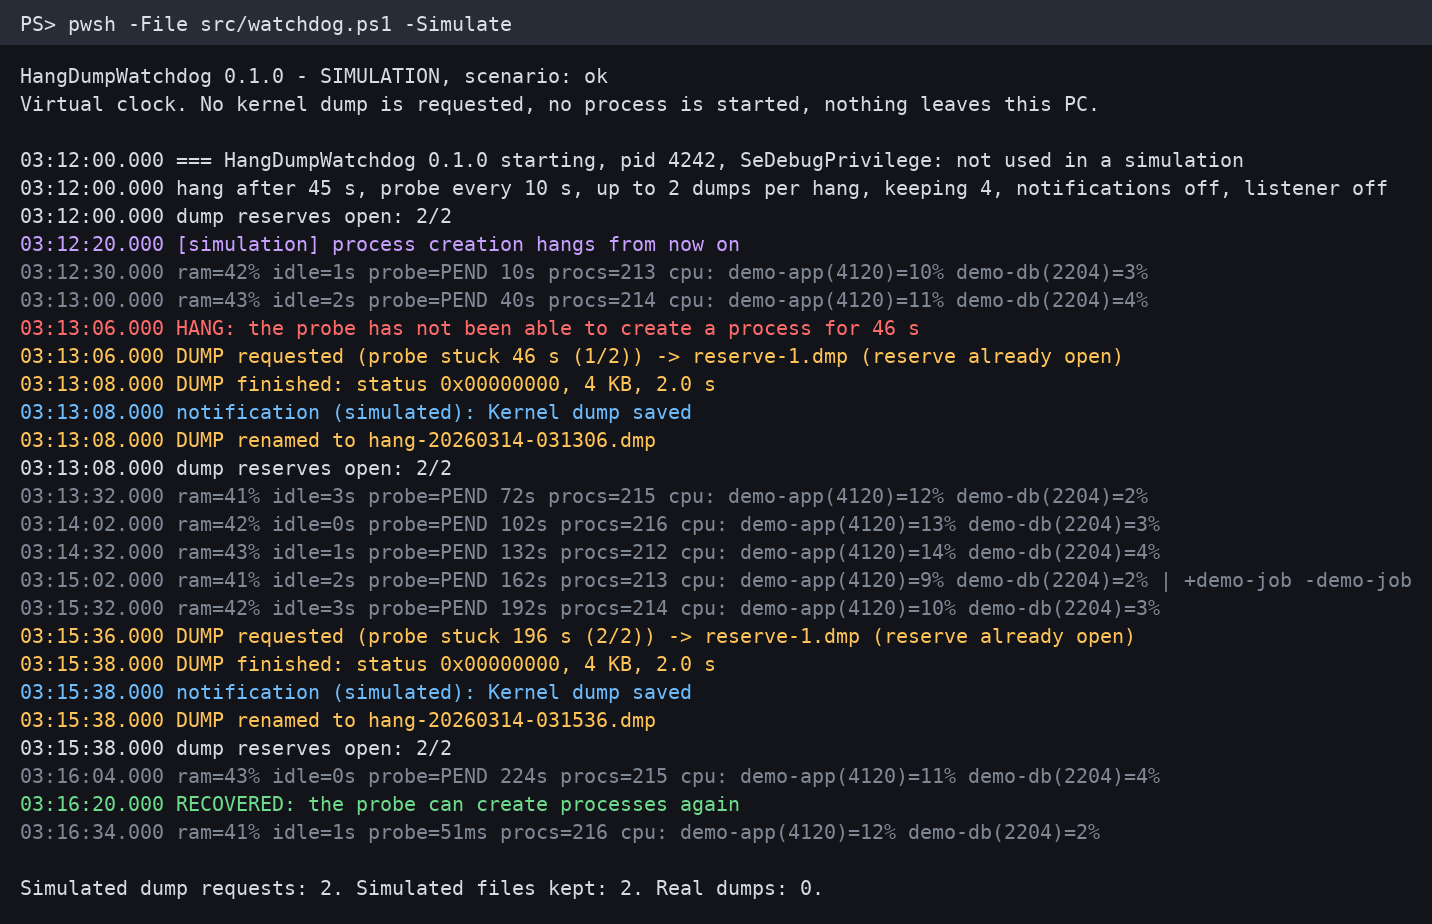
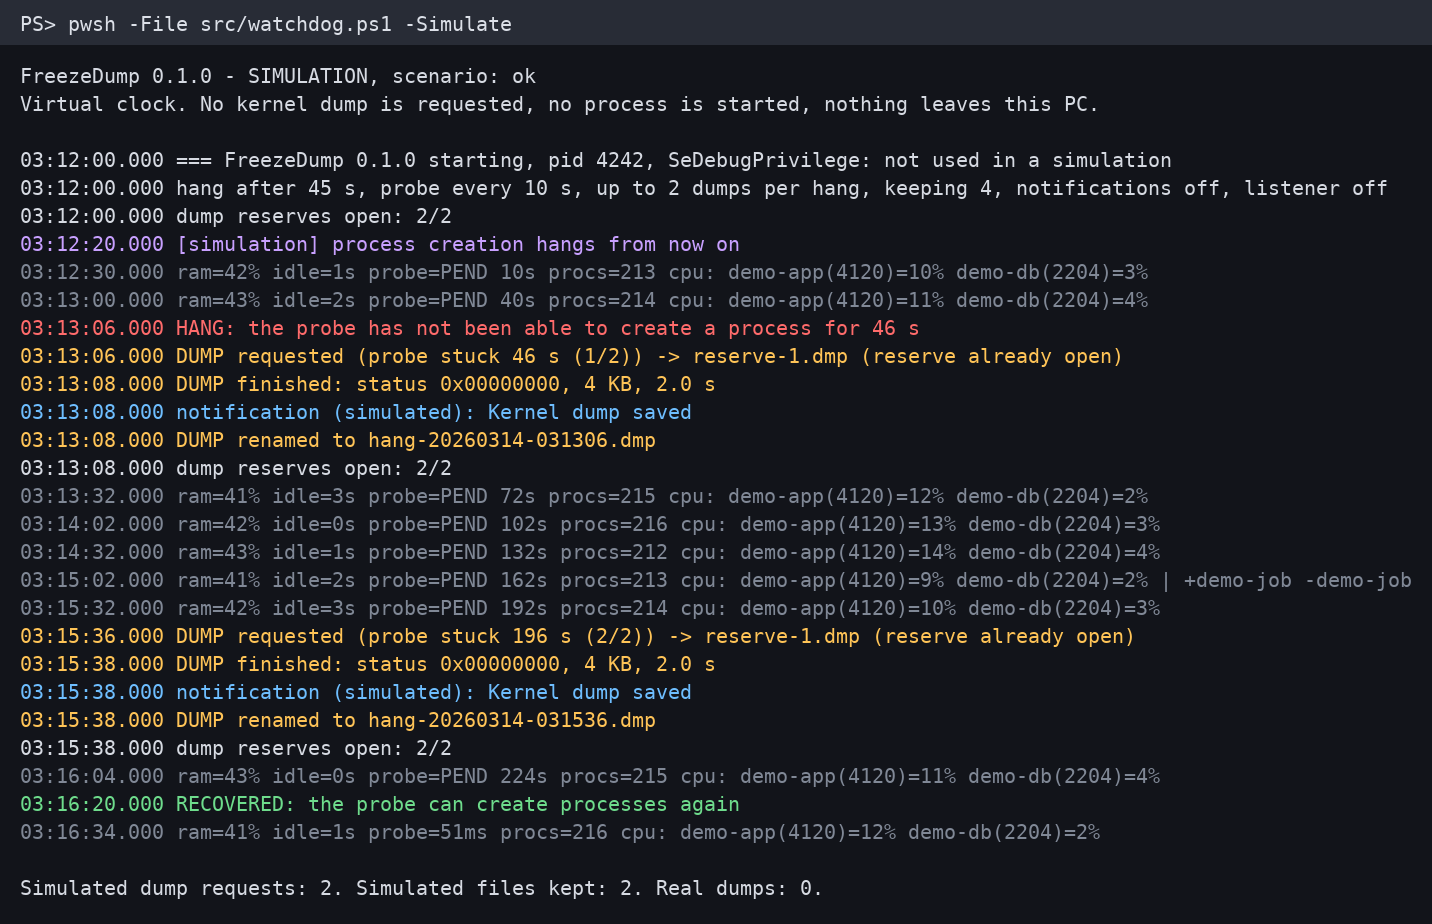
Rename to FreezeDump and record the first real dump with this code
-TestDump on a healthy PC: 2495 MB in 2.1 s, valid header, code 0x161,
and cdb opened the file. The real-hang fix is still unproven.

Claude-Session: https://claude.ai/code/session_01St6Ugn5cNv9w5un7SaPCzD

Changed region(s): [[0.1536, 0.1515, 0.8603, 0.1818], [0.0, 0.0606, 0.4302, 0.0909]]

diff --git a/src/Watchdog.cs b/src/Watchdog.cs
@@ -5,7 +5,7 @@ using System.IO;
 using System.Text;
 using System.Threading;
 
-namespace HangDumpWatchdog
+namespace FreezeDump
 {
     public sealed class Watchdog
     {
@@ -35,7 +35,7 @@ namespace HangDumpWatchdog
 
         public void Start(int processId, string debugPrivilege)
         {
-            log.Write("=== HangDumpWatchdog " + Program.Version + " starting, pid " + processId + ", SeDebugPrivilege: " + debugPrivilege);
+            log.Write("=== FreezeDump " + Program.Version + " starting, pid " + processId + ", SeDebugPrivilege: " + debugPrivilege);
             log.Write(cfg.Summary());
             dumps.Purge();
             dumps.PrepareReserves();
@@ -108,7 +108,7 @@ namespace HangDumpWatchdog
     public static class Program
     {
         public const string Version = "0.1.0";
-        const string MutexName = @"Global\HangDumpWatchdog";
+        const string MutexName = @"Global\FreezeDump";
         static Mutex instance;
 
         public const int ExitAlreadyRunning = 3;
@@ -182,7 +182,7 @@ namespace HangDumpWatchdog
             if (!cfg.Ntfy.Enabled) return "notifications are off: 'ntfy.url' is empty";
             Directory.CreateDirectory(cfg.LogDir);
             var log = new Logger(cfg.LogDir, new SystemClock(), true, false);
-            new NtfyNotifier(cfg.Ntfy.Url, cfg.Ntfy.Token, log).Send("HangDumpWatchdog test", "If you can read this, notifications work.");
+            new NtfyNotifier(cfg.Ntfy.Url, cfg.Ntfy.Token, log).Send("FreezeDump test", "If you can read this, notifications work.");
             return "test notification attempted (the line above has the result)";
         }
     }

diff --git a/src/Simulation.cs b/src/Simulation.cs
@@ -8,7 +8,7 @@ using System.Linq;
 using System.Text;
 using System.Threading;
 
-namespace HangDumpWatchdog
+namespace FreezeDump
 {
     public sealed class ScriptedProbe : IProbe
     {
@@ -157,7 +157,7 @@ namespace HangDumpWatchdog
                 throw new ArgumentException("unknown scenario: " + scenario);
 
             bool temporary = string.IsNullOrEmpty(workDir);
-            string dir = temporary ? Path.Combine(Path.GetTempPath(), "hang-dump-watchdog-sim-" + Guid.NewGuid().ToString("N")) : workDir;
+            string dir = temporary ? Path.Combine(Path.GetTempPath(), "FreezeDump-sim-" + Guid.NewGuid().ToString("N")) : workDir;
             WatchdogConfig cfg = settings.CopyForSimulation(dir);
             cfg.SampleIntervalSeconds = ShownSampleEvery;
             Directory.CreateDirectory(cfg.LogDir);

diff --git a/src/Config.cs b/src/Config.cs
@@ -5,7 +5,7 @@ using System.IO;
 using System.Net;
 using System.Text.Json;
 
-namespace HangDumpWatchdog
+namespace FreezeDump
 {
     public sealed class ConfigException : Exception
     {
@@ -49,7 +49,7 @@ namespace HangDumpWatchdog
 
         public static string DefaultDataDir()
         {
-            return Path.Combine(Environment.GetFolderPath(Environment.SpecialFolder.CommonApplicationData), "HangDumpWatchdog");
+            return Path.Combine(Environment.GetFolderPath(Environment.SpecialFolder.CommonApplicationData), "FreezeDump");
         }
 
         public static string DefaultConfigPath()

diff --git a/src/Dump.cs b/src/Dump.cs
@@ -7,7 +7,7 @@ using System.Linq;
 using System.Runtime.InteropServices;
 using System.Threading;
 
-namespace HangDumpWatchdog
+namespace FreezeDump
 {
     // Second safety catch next to the simulation: the native call refuses to run until the real
     // entry points in Program arm this gate. Simulations and tests never can (Arm is internal).

diff --git a/src/Detector.cs b/src/Detector.cs
@@ -1,5 +1,5 @@
 // Hang detection. Pure logic: it decides, it never acts, so it can be tested without a hang.
-namespace HangDumpWatchdog
+namespace FreezeDump
 {
     public struct DetectorDecision
     {

diff --git a/src/Listener.cs b/src/Listener.cs
@@ -9,7 +9,7 @@ using System.Net.Sockets;
 using System.Text;
 using System.Threading;
 
-namespace HangDumpWatchdog
+namespace FreezeDump
 {
     public sealed class CommandListener
     {

diff --git a/src/Probe.cs b/src/Probe.cs
@@ -7,7 +7,7 @@ using System.Linq;
 using System.Runtime.InteropServices;
 using System.Threading;
 
-namespace HangDumpWatchdog
+namespace FreezeDump
 {
     public interface IProbe
     {

diff --git a/src/Core.cs b/src/Core.cs
@@ -6,7 +6,7 @@ using System.Globalization;
 using System.IO;
 using System.Text;
 
-namespace HangDumpWatchdog
+namespace FreezeDump
 {
     public interface IClock
     {

diff --git a/src/Notify.cs b/src/Notify.cs
@@ -3,7 +3,7 @@ using System;
 using System.Net.Http;
 using System.Text;
 
-namespace HangDumpWatchdog
+namespace FreezeDump
 {
     public interface INotifier
     {

diff --git a/README.es.md b/README.es.md
@@ -1,4 +1,4 @@
-# HangDumpWatchdog
+# FreezeDump
 
 [English version](README.md)
 
@@ -56,10 +56,12 @@ este arreglo no sirve.
 | 31 oct 2026 | **Cuelgue real** | Prototipo privado | **Cuelgue detectado a los 45 s. El volcado nunca terminó, sin fichero** |
 | 31 oct 2026 | Por TCP, PC sano, con el arreglo | Prototipo privado | Bien: 2273 MB en 1,4 s, cabecera válida, código `0x161` |
 | Aún no | Cuelgue real, con el arreglo | | **Sin probar**: no ha habido ningún cuelgue real desde entonces |
-| 1 nov 2026 | Pruebas automáticas y simulación | Esta versión, 0.1.0 | Pasan. **Este código exacto aún no ha pedido ningún volcado real** |
+| 1 nov 2026 | Pruebas automáticas y simulación | Esta versión, 0.1.0 | Pasan |
+| 2 nov 2026 | `-TestDump`, PC sano | Esta versión, 0.1.0 | Bien: 2495 MB en 2,1 s, cabecera válida, código `0x161`. cdb (WinDbg) lo abrió |
 
-La versión 0.1.0 es una reescritura limpia de ese prototipo. La llamada nativa es la misma, pero los resultados
-reales de arriba son del prototipo. Ejecuta [`-TestDump`](#instalar) para comprobarlo en tu PC.
+La versión 0.1.0 es una reescritura limpia de ese prototipo. La llamada nativa es la misma. Este código solo ha
+pedido volcados con el PC sano, y el cuelgue real de arriba fue con el prototipo. Ejecuta
+[`-TestDump`](#instalar) para comprobarlo en tu PC.
 
 ### API sin documentar
 
@@ -93,13 +95,13 @@ Sin probar en Windows 10, Windows Server, versiones anteriores de Windows 11 ni 
 | El PC se reinicia durante un volcado | En el siguiente arranque, un fichero de reserva con datos se guarda como `hang-*-rescued.dmp`. **Puede estar cortado e inservible** |
 | No se pudieron abrir los ficheros de reserva | Se apunta en el log, y el volcado crea su fichero en ese momento, que es lo que quizá falló antes |
 | Se muere el proceso del vigilante | La tarea lo reinicia cada minuto, hasta 999 veces |
-| La configuración tiene un error | No arranca. El motivo está en `startup-error.log`, en `%ProgramData%\HangDumpWatchdog` |
+| La configuración tiene un error | No arranca. El motivo está en `startup-error.log`, en `%ProgramData%\FreezeDump` |
 
 Durante un cuelgue también puede fallar el aviso. Lo primero que hay que mirar es el log.
 
 ## Dónde van los volcados y cuánto ocupan
 
-- **Dónde:** `%ProgramData%\HangDumpWatchdog\dumps\hang-AAAAMMDD-HHMMSS.dmp`. Los logs están en `logs\`.
+- **Dónde:** `%ProgramData%\FreezeDump\dumps\hang-AAAAMMDD-HHMMSS.dmp`. Los logs están en `logs\`.
 - **Cuánto:** de 2,3 a 2,5 GB cada uno en el PC de pruebas. Es solo memoria del núcleo, sin comprimir, así que crece
   con la memoria del núcleo en uso. Los 4 que se guardan por defecto serían unos 10 GB a ese tamaño. Los más viejos
   se borran.
@@ -135,8 +137,8 @@ Copy-Item config.example.json config.json   # opcional: edítalo antes, git lo i
 .\install.ps1
 ```
 
-Esto copia el programa a `%ProgramFiles%\HangDumpWatchdog`, crea `%ProgramData%\HangDumpWatchdog` con lectura solo
-para administradores y registra la tarea `Hang Dump Watchdog`. La tarea se ejecuta elevada al iniciar sesión, sin
+Esto copia el programa a `%ProgramFiles%\FreezeDump`, crea `%ProgramData%\FreezeDump` con lectura solo
+para administradores y registra la tarea `FreezeDump`. La tarea se ejecuta elevada al iniciar sesión, sin
 aviso de UAC y sin ventana. Si elevas con otra cuenta, indica la tuya con `-User`. Solo se añade una regla de
 cortafuegos si la escucha se activa para otras máquinas.
 
@@ -144,7 +146,7 @@ Después, comprueba que tu PC admite la llamada. Esto pide **un volcado real**: 
 2 s y escribe varios GB.
 
 ```powershell
-& "$env:ProgramFiles\HangDumpWatchdog\src\watchdog.ps1" -TestDump
+& "$env:ProgramFiles\FreezeDump\src\watchdog.ps1" -TestDump
 ```
 
 Un resultado correcto es `status 0x00000000`. Borra luego el fichero `test-*.dmp`.
@@ -161,7 +163,7 @@ Desde una consola de PowerShell 7 elevada, en esta carpeta o en la instalada:
 
 ## Configuración
 
-Se instala en `%ProgramData%\HangDumpWatchdog\config.json`, a partir de [`config.example.json`](config.example.json).
+Se instala en `%ProgramData%\FreezeDump\config.json`, a partir de [`config.example.json`](config.example.json).
 Los ajustes desconocidos y los valores fuera de rango dan error. Comprueba un fichero con
 `watchdog.ps1 -CheckConfig -ConfigPath <fichero>`. Tras un cambio hay que reiniciar el vigilante: cierra e inicia
 sesión, o vuelve a ejecutar `install.ps1`.

diff --git a/README.md b/README.md
@@ -1,4 +1,4 @@
-# HangDumpWatchdog
+# FreezeDump
 
 [Versión en español](README.es.md)
 
@@ -55,10 +55,12 @@ reset, and the kernel call itself may be what blocked. In that case this fix doe
 | 31 Oct 2026 | **Real hang** | Private prototype | **Hang detected at 45 s. The dump never finished, no file** |
 | 31 Oct 2026 | Over TCP, healthy PC, with the fix | Private prototype | OK: 2273 MB in 1.4 s, valid header, code `0x161` |
 | Not yet | Real hang, with the fix | | **Never tested**: no real hang since then |
-| 1 Nov 2026 | Automated tests and simulation | This version, 0.1.0 | Pass. **This exact code has not requested a real dump yet** |
+| 1 Nov 2026 | Automated tests and simulation | This version, 0.1.0 | Pass |
+| 2 Nov 2026 | `-TestDump`, healthy PC | This version, 0.1.0 | OK: 2495 MB in 2.1 s, valid header, code `0x161`. cdb (WinDbg) opened it |
 
-Version 0.1.0 is a cleaned-up rewrite of that prototype. The native call is the same, but the real results
-above come from the prototype. Run [`-TestDump`](#install) to check it on your own PC.
+Version 0.1.0 is a cleaned-up rewrite of that prototype. The native call is the same. This code has only
+requested a dump on a healthy PC, and the real hang above happened with the prototype. Run
+[`-TestDump`](#install) to check it on your own PC.
 
 ### Undocumented API
 
@@ -92,13 +94,13 @@ Not tested on Windows 10, Windows Server, earlier Windows 11 versions or ARM64.
 | The PC is reset during a dump | At the next start, a reserve file that holds data is kept as `hang-*-rescued.dmp`. **It may be truncated and unusable** |
 | The reserve files could not be opened | It is logged, and the dump creates its file at that moment, which is what may have failed before |
 | The watchdog process dies | The task restarts it every minute, up to 999 times |
-| The config has an error | It does not start. The reason is in `startup-error.log` in `%ProgramData%\HangDumpWatchdog` |
+| The config has an error | It does not start. The reason is in `startup-error.log` in `%ProgramData%\FreezeDump` |
 
 A notification can also fail during a hang. The log is what to check first.
 
 ## Where the dumps go and how big they are
 
-- **Where:** `%ProgramData%\HangDumpWatchdog\dumps\hang-YYYYMMDD-HHMMSS.dmp`. Logs are in `logs\`.
+- **Where:** `%ProgramData%\FreezeDump\dumps\hang-YYYYMMDD-HHMMSS.dmp`. Logs are in `logs\`.
 - **How big:** 2.3 to 2.5 GB each on the test PC. It is kernel memory only, uncompressed, so it grows with
   the kernel memory in use. The 4 kept by default would take about 10 GB at that size. Older ones are deleted.
 - **Reserve files:** `reserve-1.dmp` and `reserve-2.dmp` take 0 bytes until used.
@@ -133,8 +135,8 @@ Copy-Item config.example.json config.json   # optional: edit it first, it is ign
 .\install.ps1
 ```
 
-This copies the program to `%ProgramFiles%\HangDumpWatchdog`, creates `%ProgramData%\HangDumpWatchdog`
-readable by administrators only, and registers the task `Hang Dump Watchdog`. The task runs elevated when you
+This copies the program to `%ProgramFiles%\FreezeDump`, creates `%ProgramData%\FreezeDump`
+readable by administrators only, and registers the task `FreezeDump`. The task runs elevated when you
 log on, with no UAC prompt and no window. If you elevate with a different account, name yours with `-User`. A
 firewall rule is only added if the listener is enabled for other machines.
 
@@ -142,7 +144,7 @@ Then check that your PC supports the call. This requests **one real dump**: it a
 about 2 s and writes several GB.
 
 ```powershell
-& "$env:ProgramFiles\HangDumpWatchdog\src\watchdog.ps1" -TestDump
+& "$env:ProgramFiles\FreezeDump\src\watchdog.ps1" -TestDump
 ```
 
 A healthy result is `status 0x00000000`. Delete the `test-*.dmp` file afterwards.
@@ -159,7 +161,7 @@ From an elevated PowerShell 7 prompt, in this folder or in the installed one:
 
 ## Configuration
 
-Installed at `%ProgramData%\HangDumpWatchdog\config.json`, based on [`config.example.json`](config.example.json).
+Installed at `%ProgramData%\FreezeDump\config.json`, based on [`config.example.json`](config.example.json).
 Unknown settings and out-of-range values are errors. Check a file with `watchdog.ps1 -CheckConfig -ConfigPath <file>`.
 Restart the watchdog after a change: log off and on again, or run `install.ps1` again.
 
